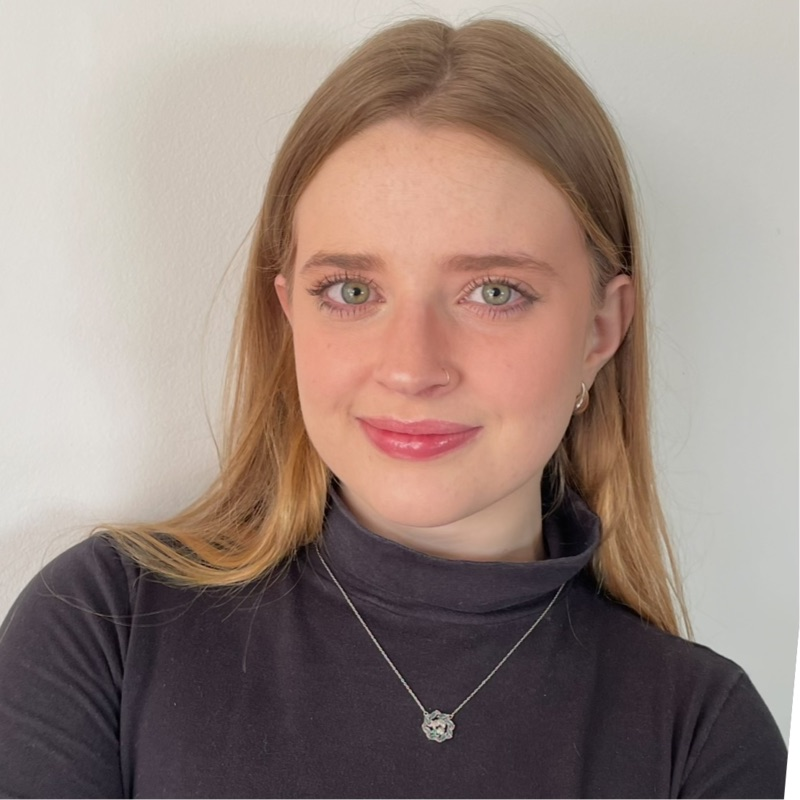
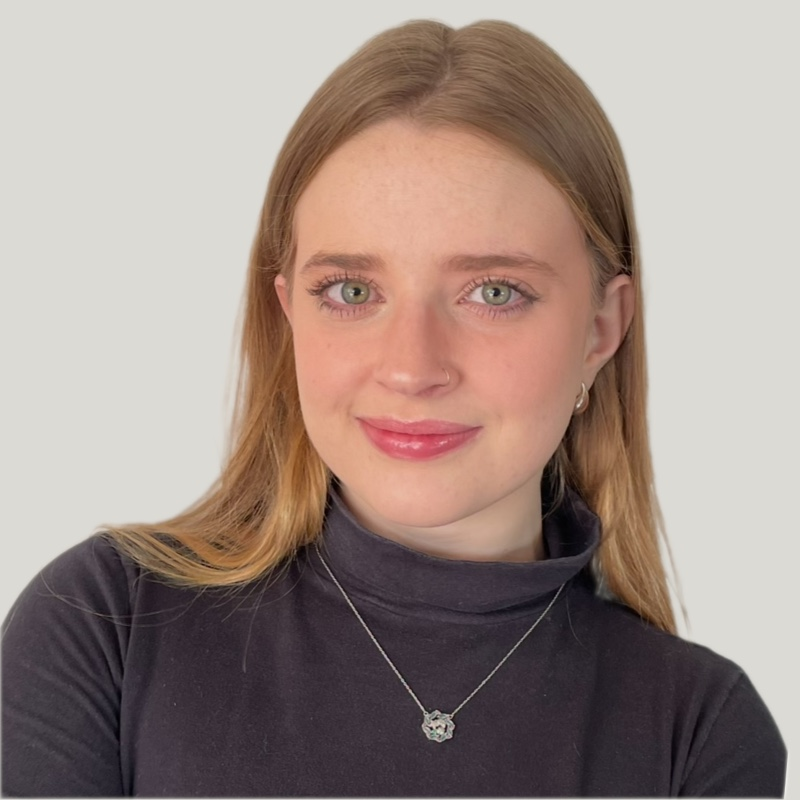
Founders: Carolina on the same neutral grey as the others

diff --git a/index.html b/index.html
@@ -153,7 +153,7 @@
           <div class="cards">
             <div class="card person"><div class="photo"><img src="assets/team/brianna.jpg?v=2" alt="Brianna Gabaldon" width="800" height="800" loading="lazy"></div><div class="who"><h3>Brianna Gabaldon</h3><a class="li" href="https://www.linkedin.com/in/brianna-gabaldon-328011149/" rel="noopener" aria-label="Brianna Gabaldon on LinkedIn">in</a></div><span class="role">CEO / Co-founder</span><p class="fine">Product manager on an operating system shipping to 1.4+ billion devices. B.S. Computer Science; M.S. Global Security, Conflict and Cybercrime (NYU), thesis on human factors in cyber risk. Ethical Tech CoLab advisor.</p></div>
             <div class="card person"><div class="photo"><img src="assets/team/daniel.jpg?v=2" alt="Daniel Vitenko" width="800" height="800" loading="lazy"></div><div class="who"><h3>Daniel Vitenko</h3><a class="li" href="https://www.linkedin.com/in/daniel-vitenko/" rel="noopener" aria-label="Daniel Vitenko on LinkedIn">in</a></div><span class="role">CTO / Co-founder</span><p class="fine">B.S. Computational Mathematics; M.S. Quantum Science. Graduate research in large-scale RQC behavior and Fermi gas simulations.</p></div>
-            <div class="card person"><div class="photo"><img src="assets/team/carolina.jpg" alt="Carolina Pernambuco Moron" width="800" height="800" loading="lazy"></div><div class="who"><h3>Carolina Pernambuco Moron</h3><a class="li" href="https://www.linkedin.com/in/carolina-pernambuco-moron/" rel="noopener" aria-label="Carolina Pernambuco Moron on LinkedIn">in</a></div><span class="role">CPO / Co-founder</span><p class="fine">B.S. International Business; M.S. Global Economy with a specialization in Data Analytics; M.S. Global Security, Conflict and Cybercrime (NYU).</p></div>
+            <div class="card person"><div class="photo"><img src="assets/team/carolina.jpg?v=2" alt="Carolina Pernambuco Moron" width="800" height="800" loading="lazy"></div><div class="who"><h3>Carolina Pernambuco Moron</h3><a class="li" href="https://www.linkedin.com/in/carolina-pernambuco-moron/" rel="noopener" aria-label="Carolina Pernambuco Moron on LinkedIn">in</a></div><span class="role">CPO / Co-founder</span><p class="fine">B.S. International Business; M.S. Global Economy with a specialization in Data Analytics; M.S. Global Security, Conflict and Cybercrime (NYU).</p></div>
           </div>
           <p class="fine" style="margin-top:20px">This work builds on <em>The Human Architecture of Cyber Risk: How Micro-Businesses Operate Beyond Conventional Frameworks</em>, M.S. thesis, NYU Center for Global Affairs, April 2026.</p>
         </div>
